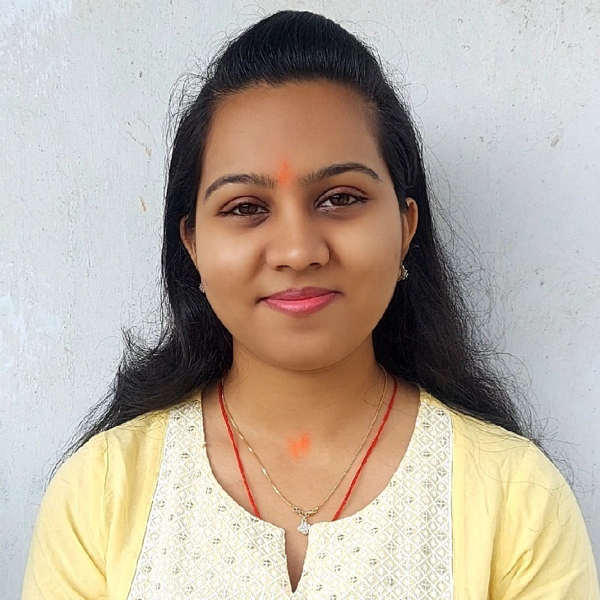
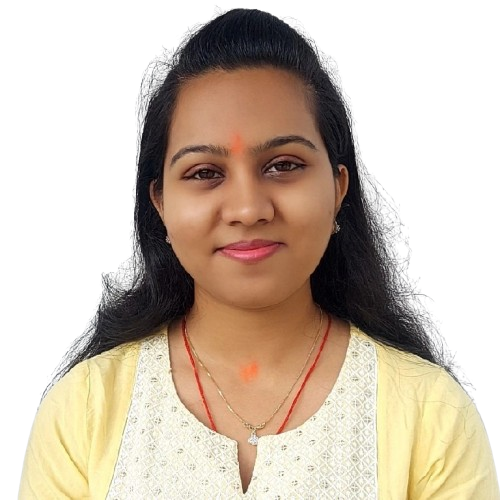
Use transparent-background profile photo, theme the photo frame
Swap the profile photo for a background-removed cutout and switch
object-fit from cover to contain so the transparency shows through
instead of being cropped away. The photo frame background was
hardcoded dark in both themes; light mode now uses the page canvas
color instead of a dark box behind the cutout.

diff --git a/src/components/hero/Hero.jsx b/src/components/hero/Hero.jsx
@@ -87,11 +87,11 @@ export function Hero() {
                       <img
                         src={PROFILE.photoUrl.replace(/\.webp$/, ".png")}
                         alt={PROFILE.name}
-                        width={600}
-                        height={600}
+                        width={500}
+                        height={500}
                         fetchPriority="high"
                         decoding="async"
-                        className="h-full w-full object-cover saturate-[85%] contrast-105"
+                        className="h-full w-full object-contain saturate-[85%] contrast-105"
                       />
                     </picture>
                     <div

diff --git a/src/index.css b/src/index.css
@@ -34,7 +34,7 @@
   --color-accent-dim: #0891b224;
   --color-glow: #0891b240;
   --color-shadow: rgba(15, 23, 42, 0.08);
-  --color-photo-bg: var(--color-ink);
+  --color-photo-bg: var(--color-canvas);
 }
 
 @layer base {
